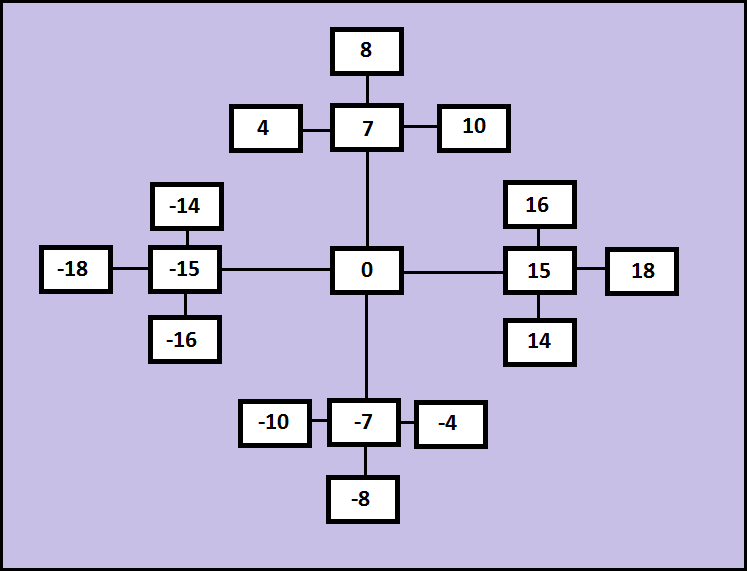
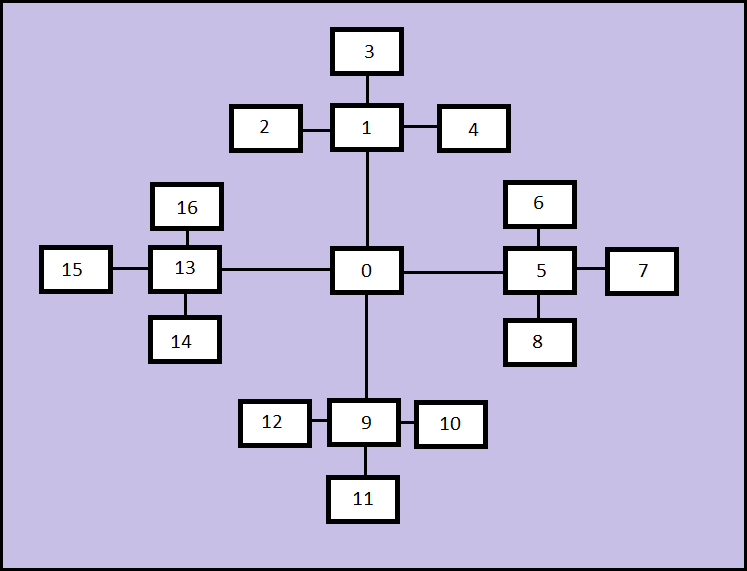
Changed the system for going between Locations.  Instead of increasing/decreasing the value of the location depending on the direction now the locations are linked together.  It's set up like an awkward linked list that can go in 4 directions.  Each location has 4 properties that act as links, they 

diff --git a/scripts/adventureScript.js b/scripts/adventureScript.js
@@ -1,67 +1,95 @@
-			//An object to represent locations in the game
-			function gameLocation(numCode,wasExplored,color,areaDescription){
+			//An object to represent locations in the game, For the location links I decided to go clockwise starting north.
+			function gameLocation(numCode,wasExplored,north,east,south,west,color,areaDescription){
 				this.code = numCode;
 				this.explored = wasExplored;
+				this.northLink = north;				
+				this.eastLink = east;
+				this.southLink = south;
+				this.westLink = west;
 				this.bgColor = color;
 				this.description = areaDescription;
 			}		
 			
 			var score = 0; //The player gains 5 points every time they enter an area for the first time
-			var currentArea = 0; //holds the number that represents the area player is currently in
+			
 			var commandText = "";
 			var commandList = "north, south, east, west, area, help, inventory";
 			var badDirection = "";
 			var inventory = [];
 						
 			//all of the locations in the game
-			var gameLocation0 = new gameLocation(0,true,"#f3e19a","You have entered the desert,  a desolate plain devoid of life save for a few insects and some scarce cacti throughout the land.  The scorching sun makes drudging through the desert a truly miserable experience.");
-			var gameLocation4 = new gameLocation(4,false,"#7c5768", "You have entered the wastelands.  The land is filled with ashes, and you are overwhelmed by the strong smell given off by the burning brimstone.");
-			var gameLocation7 = new gameLocation(7,false,"#616b65","You have entered the swamp.  There's a strong stench of death and decay.  The trees are all covered in fungi, and large mushrooms are growing all over the land along the stagnant water.");
-			var gameLocation8 = new gameLocation(8,false,"#207843","You have entered the forest.  The towering trees create a canopy that blocks all but a few scattered rays of sunlight.  The forest is mysteriously quiet, and you feel as though you are being watched.");
-			var gameLocation10 = new gameLocation(10,false,"#6b5076","You have entered the graveyard.  It appears to have been abandoned long ago, most of the grave markers are broken and the inscriptions have faded.");
-			var gameLocation14 = new gameLocation(14,false,"#a24ad3","You pass through a small tunnel and end up in a strange land.  The dirt is a strange shade of purple and the plants are like none you have ever seen.  This land seems almost otherworldly, maybe that tunnel acts as a portal between two different worlds.");
-			var gameLocation15 = new gameLocation(15,false,"#c7f78c","You have entered the grasslands.  Knee high yellowy-green grass stretches out in every direction as far as the eye can see.  There are small yew trees throughout the land, and you can hear many birds singing simultaneously.");
-			var gameLocation16 = new gameLocation(16,false,"#208182","You have entered the valley.  The valley is over a mile wide and half a mile below the surrounding hills.  A small river runs down the center of the valley, you can see and hear abundant wildlife in the area.  The river water is crystal-clear, and there are bountiful bushes filled with ripe berries along the side of the river.");
-			var gameLocation18 = new gameLocation(18,false,"#97c2c2","You have entered the tundra.  A layer of snow and ice covers the ground, there are small sections of dense evergreen trees creating small forests, you can see some reindeer grazing.  You feel as though you're being hunted, perhaps there are wolves nearby.");
-			var gameLocationN4 = new gameLocation(-4,false,"#bbc135","You have entered the ruins.  It's an ancient city with a large citadel atop a hill in the center.  The citadel has steep walls, and the center tower stands a hundred feet tall with sturdy walls that haven't submitted to the forces of nature despite the rest of the citadel being overgrown and reduced to rubble.");
-			var gameLocationN7 = new gameLocation(-7,false,"#18a0d7","You have entered the shoreline, a sandy beach stretching fore miles in either direction presses against the beautiful blue ocean.  You can see an abandoned boat tied to a nearby tree.  It looks damaged from years of being battered by the waves, perhaps you can repair it.");
-			var gameLocationN8 = new gameLocation(-8,false,"#1540a8","You have entered the island.  It appears to be a very small island with many trees and a large hill toward the northern end.  You can see the shoreline you from the continent you left to reach this island, it's about half a mile away.  Besides that there's only a few miniscule islands with little to no vegetation within sight.  ");
-			var gameLocationN10 = new gameLocation(-10,false,"#7f9295","You have entered the cave, it's very damp as smells of rotting vegetation.  Your face is barraged by water droplets as they come down from the stalactites.  There is very little light coming from the cave entrance, you're not sure how deep the cave goes. ");
-			var gameLocationN14 = new gameLocation(-14,false,"#d4d0d2","You have entered the quarries, there are massive pits stretched throughout the land.  Looking around you see many rocks that still contain gems, emeralds rubies and sapphires that have been left behind.  Those who mined these quarries may have delved too deep and awoken a terrible beast, which as legend states has happened in the past.");
-			var gameLocationN15 = new gameLocation(-15,false,"#ad2626","You have entered the mountain.  A steep, treacherous mountain pass winds up the eastern side, what is to be found on the other side of the mountain you do not know.  The path looks like it hasn't been used in decades, and certain parts of the path have crumbled making it only 1 foot wide at some points, leading to a sudden and deadly drop.");
-			var gameLocationN16 = new gameLocation(-16,false,"#d0fad0","You have entered the peninsula.  The peninsula is about 12 feet above sea level, with a rocky dropoff around the edges.  The unrelenting sea waves bash against the rocky coast, and hard rain drenches the land.  As the rain washes the soil away, a nearby tree suddenly lurches forward, some of its deeper roots just barely preventing it from falling into the sea.");
-			var gameLocationN18 = new gameLocation(-18,false,"#ecc03c","You have entered the plateau.  There's a stream coming from the nearby mountain which dwarfs the plateau in comparison.  The stream crosses the top of the platuea from the eastern side to the northern side, and there it turns into a waterfall.  At the base of the waterfall you can see the stream continues going north-east.");
+			var gameLocation0 = new gameLocation(0,true,null,null,null,null,"#f3e19a","You have entered the desert,  a desolate plain devoid of life save for a few insects and some scarce cacti throughout the land.  The scorching sun makes drudging through the desert a truly miserable experience.");
+			var gameLocation1 = new gameLocation(1,false,null,null,gameLocation0,null,"#616b65","You have entered the swamp.  There's a strong stench of death and decay.  The trees are all covered in fungi, and large mushrooms are growing all over the land along the stagnant water.");
+			var gameLocation2 = new gameLocation(2,false,null,gameLocation1,null,null,"#7c5768", "You have entered the wastelands.  The land is filled with ashes, and you are overwhelmed by the strong smell given off by the burning brimstone.");
+			var gameLocation3 = new gameLocation(3,false,null,null,gameLocation1,null,"#207843","You have entered the forest.  The towering trees create a canopy that blocks all but a few scattered rays of sunlight.  The forest is mysteriously quiet, and you feel as though you are being watched.");
+			var gameLocation4 = new gameLocation(4,false,null,null,null,gameLocation1,"#6b5076","You have entered the graveyard.  It appears to have been abandoned long ago, most of the grave markers are broken and the inscriptions have faded.");			
+			var gameLocation5 = new gameLocation(5,false,null,null,null,gameLocation0,"#c7f78c","You have entered the grasslands.  Knee high yellowy-green grass stretches out in every direction as far as the eye can see.  There are small yew trees throughout the land, and you can hear many birds singing simultaneously.");
+			var gameLocation6 = new gameLocation(6,false,null,null,gameLocation5,null,"#208182","You have entered the valley.  The valley is over a mile wide and half a mile below the surrounding hills.  A small river runs down the center of the valley, you can see and hear abundant wildlife in the area.  The river water is crystal-clear, and there are bountiful bushes filled with ripe berries along the side of the river.");
+			var gameLocation7 = new gameLocation(7,false,null,null,null,gameLocation5,"#97c2c2","You have entered the tundra.  A layer of snow and ice covers the ground, there are small sections of dense evergreen trees creating small forests, you can see some reindeer grazing.  You feel as though you're being hunted, perhaps there are wolves nearby.");
+			var gameLocation8 = new gameLocation(8,false,gameLocation5,null,null,null,"#a24ad3","You pass through a small tunnel and end up in a strange land.  The dirt is a strange shade of purple and the plants are like none you have ever seen.  This land seems almost otherworldly, maybe that tunnel acts as a portal between two different worlds.");			
+			var gameLocation9 = new gameLocation(9,false,gameLocation0,null,null,null,"#18a0d7","You have entered the shoreline, a sandy beach stretching fore miles in either direction presses against the beautiful blue ocean.  You can see an abandoned boat tied to a nearby tree.  It looks damaged from years of being battered by the waves, perhaps you can repair it.");
+			var gameLocation10 = new gameLocation(10,false,null,null,null,gameLocation9,"#bbc135","You have entered the ruins.  It's an ancient city with a large citadel atop a hill in the center.  The citadel has steep walls, and the center tower stands a hundred feet tall with sturdy walls that haven't submitted to the forces of nature despite the rest of the citadel being overgrown and reduced to rubble.");
+			var gameLocation11 = new gameLocation(11,false,gameLocation9,null,null,null,"#1540a8","You have entered the island.  It appears to be a very small island with many trees and a large hill toward the northern end.  You can see the shoreline you from the continent you left to reach this island, it's about half a mile away.  Besides that there's only a few miniscule islands with little to no vegetation within sight.  ");
+			var gameLocation12 = new gameLocation(12,false,null,gameLocation9,null,null,"#7f9295","You have entered the cave, it's very damp as smells of rotting vegetation.  Your face is barraged by water droplets as they come down from the stalactites.  There is very little light coming from the cave entrance, you're not sure how deep the cave goes. ");			
+			var gameLocation13 = new gameLocation(13,false,null,gameLocation0,null,null,"#ad2626","You have entered the mountain.  A steep, treacherous mountain pass winds up the eastern side, what is to be found on the other side of the mountain you do not know.  The path looks like it hasn't been used in decades, and certain parts of the path have crumbled making it only 1 foot wide at some points, leading to a sudden and deadly drop.");
+			var gameLocation14 = new gameLocation(14,false,gameLocation13,null,null,null,"#d0fad0","You have entered the peninsula.  The peninsula is about 12 feet above sea level, with a rocky dropoff around the edges.  The unrelenting sea waves bash against the rocky coast, and hard rain drenches the land.  As the rain washes the soil away, a nearby tree suddenly lurches forward, some of its deeper roots just barely preventing it from falling into the sea.");
+			var gameLocation15 = new gameLocation(15,false,null,gameLocation13,null,null,"#ecc03c","You have entered the plateau.  There's a stream coming from the nearby mountain which dwarfs the plateau in comparison.  The stream crosses the top of the platuea from the eastern side to the northern side, and there it turns into a waterfall.  At the base of the waterfall you can see the stream continues going north-east.");
+			var gameLocation16 = new gameLocation(16,false,null,null,gameLocation13,null,"#d4d0d2","You have entered the quarries, there are massive pits stretched throughout the land.  Looking around you see many rocks that still contain gems, emeralds rubies and sapphires that have been left behind.  Those who mined these quarries may have delved too deep and awoken a terrible beast, which as legend states has happened in the past.");
 			
-			//array that holds all of the gameLocations.
-			var listLocations = [];
-			listLocations.push(gameLocation0,gameLocation4,gameLocation7,gameLocation8,gameLocation10,gameLocation14,gameLocation15,gameLocation16,gameLocation18,gameLocationN4,gameLocationN7,gameLocationN8,gameLocationN10,gameLocationN14,gameLocationN15,gameLocationN16,gameLocationN18);
-						
+			gameLocation0.northLink = gameLocation1;
+			gameLocation0.eastLink = gameLocation5;
+			gameLocation0.southLink = gameLocation9;
+			gameLocation0.westLink = gameLocation13;
+			
+			gameLocation1.northLink = gameLocation3;
+			gameLocation1.eastLink = gameLocation4;
+			gameLocation1.westLink = gameLocation2;
+			
+			gameLocation5.northLink = gameLocation6;
+			gameLocation5.eastLink = gameLocation7;
+			gameLocation5.southLink = gameLocation8;
+			
+			gameLocation9.eastLink = gameLocation10;
+			gameLocation9.southLink = gameLocation11;
+			gameLocation9.westLink = gameLocation12;
+			
+			gameLocation13.northLink = gameLocation16;
+			gameLocation13.southLink = gameLocation14;
+			gameLocation13.westLink = gameLocation15;
 			
 			//this will represent the location where the user can currently be found
 			var currentLocation = gameLocation0;
-			
-			
+						
 			//only enables directional buttons that point to a valid area
 			function checkAreas(){
-				document.getElementById("northButton").disabled = true;
-				document.getElementById("eastButton").disabled = true;
-				document.getElementById("southButton").disabled = true;
-				document.getElementById("westButton").disabled = true;
-					for(i=0; i < listLocations.length; i++){
-						if (listLocations[i].code == (currentArea + 1) || currentArea == 0 || currentArea == -7 ){
+						if (currentLocation.northLink == null){
+							document.getElementById("northButton").disabled = true;
+						}
+						else{
 							document.getElementById("northButton").disabled = false;
 						}
-						if (listLocations[i].code == (currentArea + 3) || currentArea == 0 || currentArea == -15){
+						
+						if (currentLocation.eastLink == null){
+							document.getElementById("eastButton").disabled = true;
+						}
+						else{
 							document.getElementById("eastButton").disabled = false;
 						}
-						if (listLocations[i].code == (currentArea - 1) || currentArea == 0 || currentArea == 7){
+						
+						if (currentLocation.southLink == null){
+							document.getElementById("southButton").disabled = true;
+						}
+						else{
 							document.getElementById("southButton").disabled = false;
 						}
-						if (listLocations[i].code == (currentArea - 3) || currentArea == 0 || currentArea == 15){
+						
+						if (currentLocation.westLink == null){
+							document.getElementById("westButton").disabled = true;
+						}
+						else{
 							document.getElementById("westButton").disabled = false;
-						}	
-					
-					}
+						}
+						
 			
 			} 
 			
@@ -97,13 +125,6 @@
 					
 			//Sets user to correct location, then displays area description in text area, changes the background color to fit the area, updates score and updates enabled/disabled directions.
 			function updateDisplay() {
-				for (i = 0; i < listLocations.length; i++){
-					currentLocation = listLocations[i];
-					if (currentLocation.code == currentArea){
-						break;
-					}
-				}
-				
 				if (currentLocation.explored == false){
 					currentLocation.explored = true;
 					score += 5;
@@ -124,11 +145,8 @@
 			
 			//directional commands to move to new areas.  There's a large jump in value when going to or leaving the starting area to prevent jumping to another area you shouldn't be able to reach from your current location
 			function moveNorth() {
-				if (currentArea == 0 || currentArea == -7){
-					currentArea += 7;
-				}
-				else if (document.getElementById("northButton").disabled == false){
-					currentArea++;					
+				if (currentLocation.northLink != null){
+					currentLocation = currentLocation.northLink;
 				}
 				else{
 					badDirection="You cannot go North from this location.";
@@ -139,11 +157,8 @@
 				updateDisplay();
 			}
 			function moveWest() {
-				if (currentArea == 0 || currentArea == 15){
-					currentArea += -15;
-				}
-				else if (document.getElementById("westButton").disabled == false){
-					currentArea += -3;
+				if (currentLocation.westLink != null){
+					currentLocation = currentLocation.westLink;
 				}
 				else{
 					badDirection="You cannot go West from this location.";
@@ -154,11 +169,8 @@
 				updateDisplay();
 			}
 			function moveEast() {
-				if (currentArea == 0 || currentArea == -15){
-					currentArea += 15;
-				}
-				else if (document.getElementById("eastButton").disabled == false){
-					currentArea += 3;
+				if (currentLocation.eastLink != null){
+					currentLocation = currentLocation.eastLink;
 				}
 				else{
 					badDirection="You cannot go East from this location.";
@@ -169,11 +181,8 @@
 				updateDisplay();
 			}
 			function moveSouth() {
-				if (currentArea == 0 || currentArea == 7){
-					currentArea += -7;
-				}
-				else if (document.getElementById("southButton").disabled == false){
-					currentArea += -1;
+				if (currentLocation.southLink != null){
+					currentLocation = currentLocation.southLink;
 				}	
 				else{
 					badDirection="You cannot go South from this location.";
